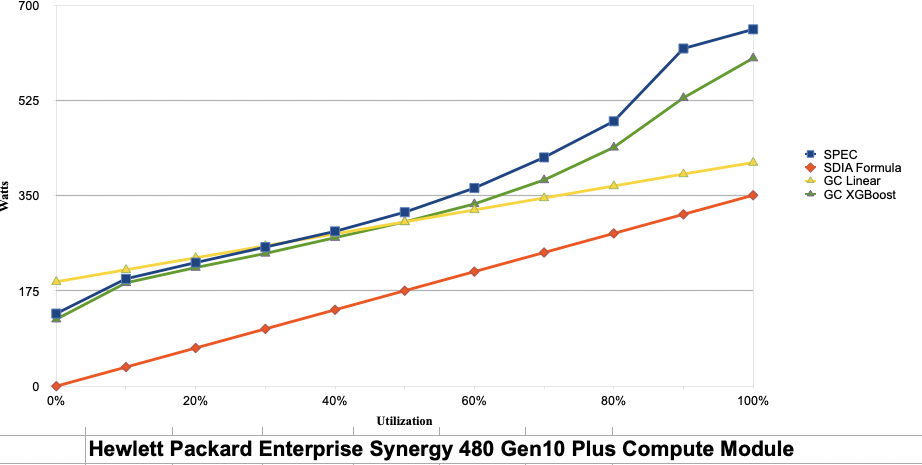
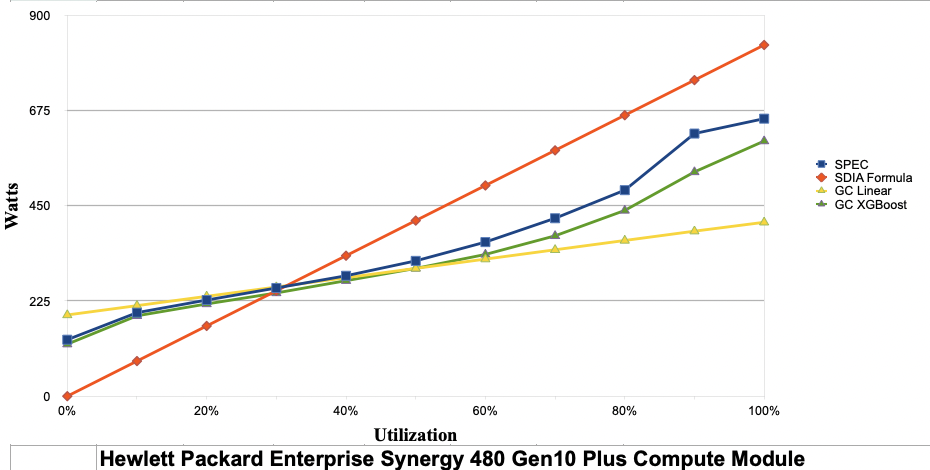
New image and better readme

diff --git a/README.md b/README.md
@@ -265,7 +265,13 @@ This is the comparison chart where we compare the standard BIOS setup against th
 ![fujitsu_TX1330_measured.png](/img/fujitsu_TX1330_measured.png)
 
 ## Summary
-TODO
+- We can see that the SDIA model in its current form cannot account for the idle state of the machine and thus always underestimates here
+- The SDIA model underestimates 1-chip machines and greatly over-estimates 2-chip machines
+    + Taken into account that for 2-chip machines we only have SPECPower data at the moment and no real world data
+- The linear model is good for parameter exploration, but delivers badly fitted results
+- The XGBoost model is able to estimate a real world 1-chip machine and an out of sample 2-chip machine from SPECPower very nicely.
+    + However it tends to under-estimate
+- We see suprisingly no efficiency gain from applying the SPECPower BIOS settings but rather a smoothing of the curve. The reason to that is currently unknown.
 
 # Installation
 
@@ -322,7 +328,9 @@ Or feed it directly to the model with: `./a.out | python3 model.py --tdp ....`
 - vhost operating point
 - validation of EC2 machines and the data from Teads. 
 - Performance optimizations for inline processing to get below 2% of utilization for 100ms intervals
-
+- Re-evaluating more machines from the SPECPower database in our lab and better understand what the BIOS settings really impact in regards to the server energy
+- Research what values in the cloud are typically set for the BIOS settings that SPECPower lists and if they can be configured in the cloud
+- Introspecting our models to understand which parameter in which setting will give the most energy gain when set on the machine so that developers can optimize these parameters
 
 ## Credits
 
